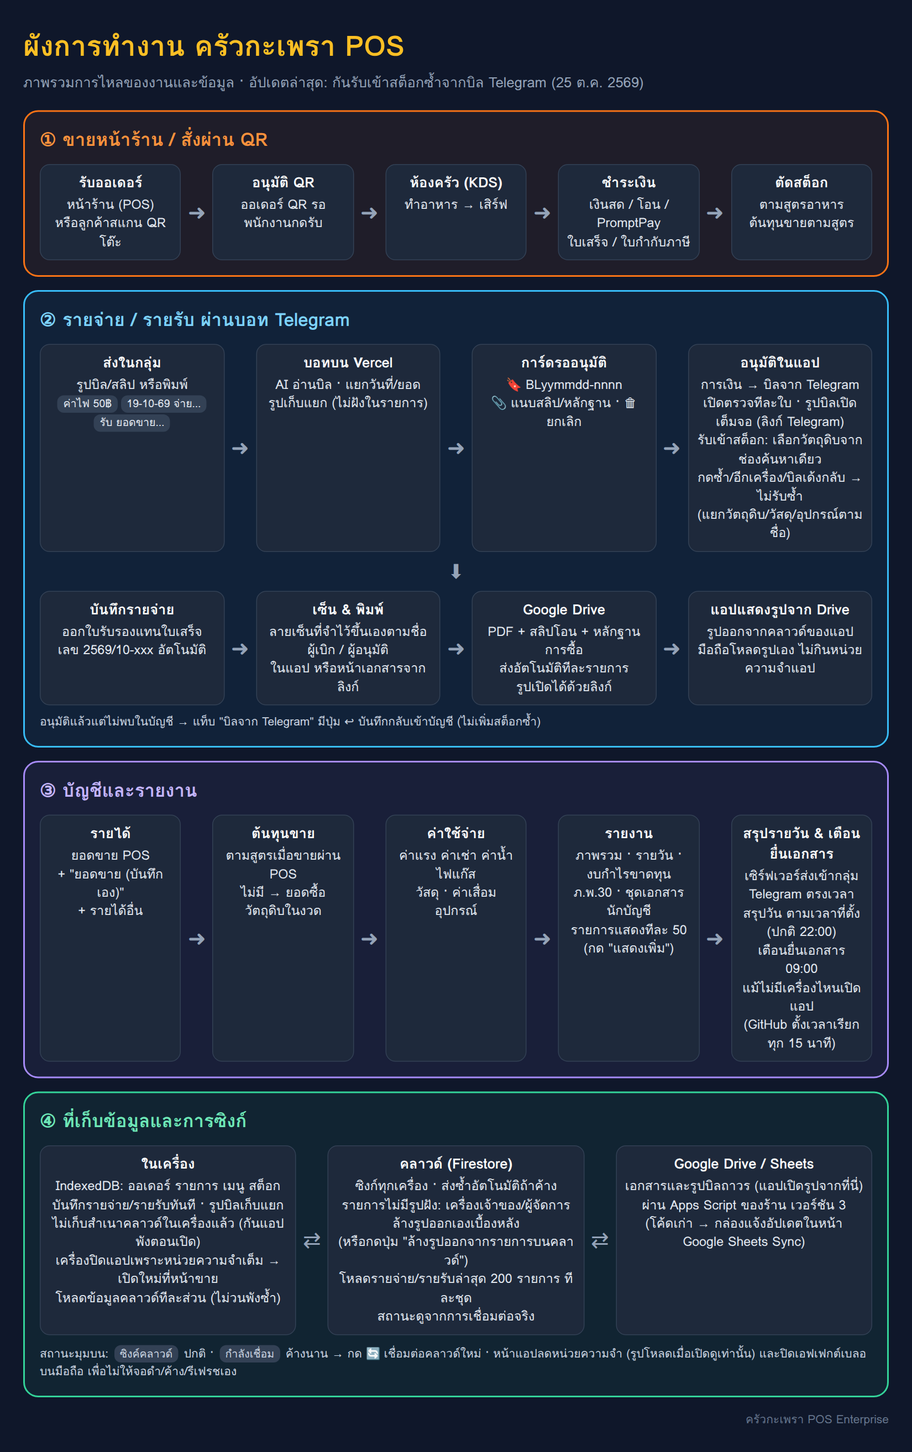
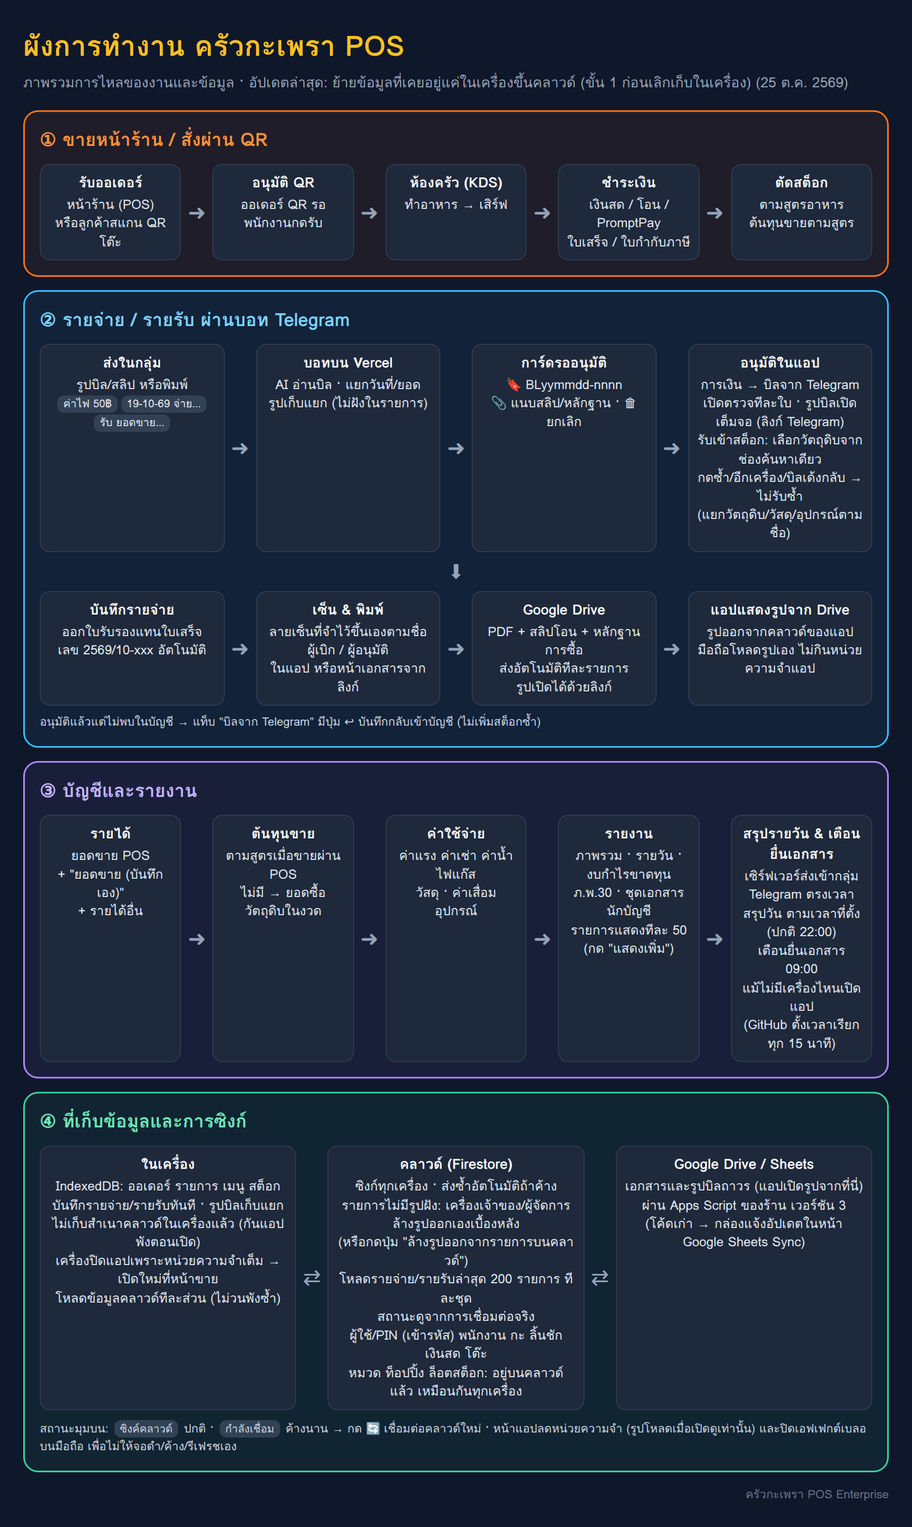
Move the data kept only on a device to the cloud (step 1 of no local storage)
Users and their PINs, staff, shifts, shift swaps, the cash drawer shifts,
tables, menu and ingredient categories, units, toppings, stock lots,
the security log, branches and the QR auto-accept switch lived only on
the device where they were made. Now each is kept in the cloud too and
the same on every device (hooks/useCloudMirror): one field per record,
records changed here sent until the cloud has them, changes from other
devices arriving live, the first meeting uploading what only this
device has (a PIN someone chose wins over a factory one). Lists that
grow are split by month (13 months followed live, older months
uploaded once). PINs, and the override PINs in the settings, travel
only hashed.

Claude-Session: https://claude.ai/code/session_01Gq3UvYW4wv3hsVCXoh5wxy

diff --git a/src/hooks/useCloudMirror.ts b/src/hooks/useCloudMirror.ts
@@ -1,0 +1,181 @@
+import { useEffect, useRef } from 'react';
+import { isFirebaseAvailable, mergeBranchDoc, saveKeyedRecords, subscribeToBranchDoc } from '../services/firebaseService';
+import { mergeMirror } from '../utils/cloudMirror';
+import { keyedItems } from '../utils/keyedDoc';
+
+type WithId = { id: string };
+
+export interface CloudMirrorOptions<T extends WithId> {
+  branchId?: string;
+  /** Online, signed in and the local data loaded */
+  enabled: boolean;
+  items: T[];
+  setItems: (update: (prev: T[]) => T[]) => void;
+  /** The cloud document a record lives in (branches/<branch>/config/<key>) */
+  docOf: (item: T) => string;
+  /** The documents followed live (e.g. the last 13 months of a list split by month) */
+  docs: string[];
+  /** The record as stored in the cloud (e.g. a plain PIN hashed) */
+  toCloud?: (item: T) => T;
+  /** First time this device meets a record the cloud also has: which one is kept (default the cloud's) */
+  prefer?: (mine: T, cloud: T) => T;
+  /** The order of the merged list (default: new records first, then this device's order) */
+  order?: (items: T[]) => T[];
+  /** The list's order is shared too (lists kept in one document, e.g. menu categories) */
+  ordered?: boolean;
+}
+
+const ARCHIVED_KEY = 'POS_CLOUD_ARCHIVED';
+const readArchived = (): Set<string> => {
+  try {
+    return new Set(JSON.parse(localStorage.getItem(ARCHIVED_KEY) || '[]'));
+  } catch {
+    return new Set();
+  }
+};
+
+/**
+ * Keeps a list of the app's state the same in the cloud and on every device, one field per record
+ * (byId.<id>) so devices changing different records keep all of them. Records changed here are
+ * sent (again until the cloud has them); records changed elsewhere arrive live. The first time a
+ * device meets a document, the records only it has are uploaded, so nothing kept on one device is
+ * lost. Records in documents not followed live (older months) are uploaded once.
+ */
+export function useCloudMirror<T extends WithId>(o: CloudMirrorOptions<T>): void {
+  const opts = useRef(o);
+  opts.current = o;
+  const cloudForm = (item: T) => (opts.current.toCloud ? opts.current.toCloud(item) : item);
+
+  /** The cloud's copy of each record (as last seen or sent) */
+  const cloudJson = useRef(new Map<string, string>());
+  /** The document each record was seen in */
+  const docOfId = useRef(new Map<string, string>());
+  /** Documents whose first copy has arrived */
+  const seen = useRef(new Set<string>());
+  /** Ids removed here that the cloud still has */
+  const removedHere = useRef(new Set<string>());
+  const lastIds = useRef<Set<string>>(new Set());
+  /** The shared order (ordered lists) */
+  const cloudOrder = useRef<string[]>([]);
+  const sending = useRef(false);
+  const docsKey = o.docs.join('|');
+
+  const send = async () => {
+    const { branchId, enabled, items, docOf, docs } = opts.current;
+    if (!branchId || !enabled || !isFirebaseAvailable() || sending.current) return;
+    const live = new Set(docs);
+    const archived = readArchived();
+    const groups = new Map<string, { put: T[]; removed: string[] }>();
+    const group = (key: string) => {
+      if (!groups.has(key)) groups.set(key, { put: [], removed: [] });
+      return groups.get(key)!;
+    };
+    for (const item of items) {
+      const key = docOf(item);
+      const form = cloudForm(item);
+      if (live.has(key)) {
+        if (seen.current.has(key) && cloudJson.current.get(item.id) !== JSON.stringify(form)) group(key).put.push(form);
+      } else if (!archived.has(`${branchId}/${key}`)) {
+        group(key).put.push(form);
+      }
+    }
+    for (const id of removedHere.current) {
+      const key = docOfId.current.get(id);
+      if (key && seen.current.has(key)) group(key).removed.push(id);
+    }
+    const orderIds = opts.current.ordered ? items.map(i => i.id) : null;
+    const orderChanged = !!orderIds && docs.length === 1 && seen.current.has(docs[0]) && orderIds.join('\n') !== cloudOrder.current.join('\n');
+    if (!groups.size && !orderChanged) return;
+    sending.current = true;
+    try {
+      for (const [key, g] of groups) {
+        const ok = await saveKeyedRecords(branchId, key, g.put, g.removed);
+        if (!ok) continue;
+        g.put.forEach(p => {
+          cloudJson.current.set(p.id, JSON.stringify(p));
+          docOfId.current.set(p.id, key);
+        });
+        g.removed.forEach(id => {
+          cloudJson.current.delete(id);
+          removedHere.current.delete(id);
+        });
+        if (!live.has(key)) {
+          archived.add(`${branchId}/${key}`);
+          try {
+            localStorage.setItem(ARCHIVED_KEY, JSON.stringify([...archived]));
+          } catch {
+            // uploaded again next time (the same records)
+          }
+        }
+      }
+      if (orderChanged && orderIds && (await mergeBranchDoc(branchId, docs[0], { order: orderIds }))) cloudOrder.current = orderIds;
+    } finally {
+      sending.current = false;
+    }
+  };
+  const sendRef = useRef(send);
+  sendRef.current = send;
+
+  // Records removed here (the cloud still has them), then everything changed is sent
+  useEffect(() => {
+    const ids = new Set(o.items.map(i => i.id));
+    for (const id of lastIds.current) if (!ids.has(id) && cloudJson.current.has(id)) removedHere.current.add(id);
+    for (const id of ids) removedHere.current.delete(id);
+    lastIds.current = ids;
+    if (!o.enabled) return;
+    const t = setTimeout(() => void sendRef.current(), 1500);
+    return () => clearTimeout(t);
+  }, [o.items, o.enabled]);
+
+  // Not sent (offline, refused): tried again
+  useEffect(() => {
+    if (!o.enabled) return;
+    const t = setInterval(() => void sendRef.current(), 30_000);
+    const online = () => void sendRef.current();
+    window.addEventListener('online', online);
+    return () => {
+      clearInterval(t);
+      window.removeEventListener('online', online);
+    };
+  }, [o.enabled]);
+
+  useEffect(() => {
+    const { branchId, enabled } = opts.current;
+    if (!branchId || !enabled || !isFirebaseAvailable()) return;
+    seen.current = new Set();
+    const unsubs = opts.current.docs.map(key =>
+      subscribeToBranchDoc(branchId, key, data => {
+        const { docOf, prefer, order } = opts.current;
+        const first = !seen.current.has(key);
+        const cloud = keyedItems<T>(data);
+        const before = new Map(cloudJson.current);
+        const removed = new Set(removedHere.current);
+        // The cloud's copy from now on
+        const cloudIds = new Set(cloud.map(c => c.id));
+        for (const [id, k] of docOfId.current) if (k === key && !cloudIds.has(id)) cloudJson.current.delete(id);
+        cloud.forEach(c => {
+          cloudJson.current.set(c.id, JSON.stringify(c));
+          docOfId.current.set(c.id, key);
+        });
+        const shared = opts.current.ordered && Array.isArray((data as any)?.order) ? ((data as any).order as string[]) : null;
+        // Another device's order wins; on a first meeting only for a device with nothing of its own
+        // (otherwise this device's order is sent)
+        const changedOrder = !!shared && shared.join('\n') !== cloudOrder.current.join('\n');
+        if (shared) cloudOrder.current = shared;
+        opts.current.setItems(prev => {
+          const merged = mergeMirror({ prev, cloud, key, first, before, removed, docOf, toCloud: cloudForm, prefer });
+          let next = order ? order(merged) : merged;
+          if (shared && changedOrder && (!first || prev.length === 0)) {
+            const at = new Map(shared.map((id, i) => [id, i]));
+            next = [...next].sort((x, y) => (at.get(x.id) ?? -1) - (at.get(y.id) ?? -1));
+          }
+          return next.length === prev.length && next.every((x, i) => x === prev[i]) ? prev : next;
+        });
+        seen.current.add(key);
+        setTimeout(() => void sendRef.current(), 500);
+      })
+    );
+    return () => unsubs.forEach(u => u());
+    // eslint-disable-next-line react-hooks/exhaustive-deps
+  }, [o.branchId, o.enabled, docsKey]);
+}

diff --git a/src/context/POSContext.tsx b/src/context/POSContext.tsx
@@ -1,6 +1,7 @@
 import React, { createContext, useContext, useState, useEffect, useCallback, useRef, useMemo, ReactNode } from 'react';
 import { isLowStock } from '../utils/stockTypes';
-import { DEFAULT_PIN_HASH, hashPin, isHashedPin } from '../utils/pins';
+import { DEFAULT_PIN_HASH, hashPin, hashPinWithSalt, isHashedPin, pinMatches } from '../utils/pins';
+import { useCloudMirror } from '../hooks/useCloudMirror';
 import { bigStore, flushBigStore } from '../utils/bigStore';
 import { lightStart } from '../utils/bootGuard';
 import { offloadRecordImages, recordImageRefs, uploadImageNow } from '../services/imageStore';
@@ -1454,7 +1455,10 @@ export const POSProvider: React.FC<{ children: ReactNode }> = ({ children }) => 
         if (local && isFirebaseAvailable()) syncSettingsToFirestore(local, branchTargetId).catch(console.warn);
         return;
       }
-      const { updatedAt: _u, lastUpdatedIso: _l, adminPin: _a, managerPin: _m, enableKitchenSound: _k, ...cloud } = data as Record<string, unknown>;
+      const { updatedAt: _u, lastUpdatedIso: _l, adminPin, managerPin, enableKitchenSound: _k, ...cloud } = data as Record<string, unknown>;
+      // Override PINs arrive only hashed (a plain one is never taken from the cloud)
+      if (typeof adminPin === 'string' && isHashedPin(adminPin)) (cloud as Record<string, unknown>).adminPin = adminPin;
+      if (typeof managerPin === 'string' && isHashedPin(managerPin)) (cloud as Record<string, unknown>).managerPin = managerPin;
       setSettings(prev => {
         const next = { ...prev, ...(cloud as Partial<SystemSettings>) };
         return JSON.stringify(next) === JSON.stringify(prev) ? prev : next;
@@ -1530,6 +1534,55 @@ export const POSProvider: React.FC<{ children: ReactNode }> = ({ children }) => 
       unsubTombstones();
     };
   }, [isStorageLoaded, effectiveOffline, currentBranch?.id, deletedMenuItemIds.length, deletedIngredientIds.length]);
+
+  // The shop's own lists (people and PINs, staff, shifts, cash drawer, tables, categories,
+  // toppings, stock lots…) in the cloud too, the same on every device: before, they lived only on
+  // the device where they were made. PINs travel hashed.
+  const mirrorOn = isStorageLoaded && !effectiveOffline && isFirebaseAvailable();
+  const mirrorBranch = currentBranch?.id;
+  const recentMonths = useMemo(() => {
+    const now = new Date();
+    return Array.from({ length: 13 }, (_, i) => {
+      const d = new Date(now.getFullYear(), now.getMonth() - i, 1);
+      return `${d.getFullYear()}-${String(d.getMonth() + 1).padStart(2, '0')}`;
+    });
+  }, []);
+  const cloudPin = <T extends { id: string; pin?: string }>(x: T): T =>
+    x.pin && !isHashedPin(x.pin) ? { ...x, pin: hashPinWithSalt(x.pin, `cloud-${x.id}`) } : x;
+  // A factory or easy PIN loses to a PIN someone chose (on whichever side it is)
+  const weakPin = (stored?: string) => !stored || stored === DEFAULT_PIN_HASH || ['1234', '0000', '1111', '2222', '3333', '4444', '5555', '6666', '7777', '8888', '9999'].some(p => pinMatches(stored, p));
+  const preferChosenPin = <T extends { pin?: string }>(mine: T, cloud: T): T => (weakPin(cloud.pin) && !weakPin(mine.pin) ? mine : cloud);
+  const single = (key: string) => ({ docOf: () => key, docs: [key] });
+  const monthly = (prefix: string, monthOf: (x: any) => string, months = recentMonths) => ({
+    docOf: (x: any) => `${prefix}_${(monthOf(x) || '').slice(0, 7) || 'undated'}`,
+    docs: [...months.map(m => `${prefix}_${m}`), `${prefix}_undated`]
+  });
+  const mirror = { branchId: mirrorBranch, enabled: mirrorOn };
+  useCloudMirror<User>({ ...mirror, ...single('state_users'), items: users, setItems: setUsers, toCloud: cloudPin, prefer: preferChosenPin, ordered: true });
+  useCloudMirror<StaffMember>({ ...mirror, ...single('state_staff'), items: staffMembers, setItems: setStaffMembers, toCloud: cloudPin, prefer: preferChosenPin, ordered: true });
+  useCloudMirror<Branch>({ ...mirror, ...single('state_branches'), items: branches, setItems: setBranches, ordered: true });
+  useCloudMirror<CategoryItem>({ ...mirror, ...single('state_categories'), items: categories, setItems: setCategories, ordered: true });
+  useCloudMirror<IngredientCategory>({ ...mirror, ...single('state_ing_categories'), items: ingredientCategories, setItems: setIngredientCategories, ordered: true });
+  useCloudMirror<IngredientUnitItem>({ ...mirror, ...single('state_units'), items: ingredientUnits, setItems: setIngredientUnits, ordered: true });
+  useCloudMirror<AddOnOption>({ ...mirror, ...single('state_addons'), items: addOns, setItems: setAddOns, ordered: true });
+  useCloudMirror<ShiftSwapRequest>({ ...mirror, ...single('state_shift_swaps'), items: shiftSwapRequests, setItems: setShiftSwapRequests });
+  useCloudMirror<ShiftEntry>({ ...mirror, ...monthly('state_shifts', x => x.date), items: shifts, setItems: setShifts });
+  useCloudMirror<CashShift>({ ...mirror, ...monthly('state_cash', x => x.openedAt), items: cashShifts, setItems: setCashShifts });
+  useCloudMirror<StockLot>({ ...mirror, ...monthly('state_lots', x => x.receivedDate), items: stockLots, setItems: setStockLots });
+  useCloudMirror<SecurityLogEntry>({ ...mirror, ...monthly('state_security', x => x.timestamp, recentMonths.slice(0, 3)), items: securityLogs, setItems: setSecurityLogs });
+  // Tables (names in order) and the QR auto-accept switch, as records
+  const tableItems = useMemo(() => tables.map(t => ({ id: t })), [tables]);
+  const setTableItems = useCallback((update: (prev: { id: string }[]) => { id: string }[]) => setTables(prev => {
+    const next = update(prev.map(t => ({ id: t }))).map(t => t.id);
+    return next.length === prev.length && next.every((t, i) => t === prev[i]) ? prev : next;
+  }), []);
+  useCloudMirror<{ id: string }>({ ...mirror, ...single('state_tables'), items: tableItems, setItems: setTableItems, ordered: true });
+  const miscItems = useMemo(() => [{ id: 'autoApproveQR', on: autoApproveQR }], [autoApproveQR]);
+  const setMiscItems = useCallback((update: (prev: { id: string; on: boolean }[]) => { id: string; on: boolean }[]) => setAutoApproveQR(prev => {
+    const found = update([{ id: 'autoApproveQR', on: prev }]).find(x => x.id === 'autoApproveQR');
+    return found ? !!found.on : prev;
+  }), []);
+  useCloudMirror<{ id: string; on: boolean }>({ ...mirror, ...single('state_misc'), items: miscItems, setItems: setMiscItems });
 
   // Automated Daily Sales Summary Notification at Scheduled Time (e.g. 22:00)
   useEffect(() => {

diff --git a/docs/workflow/flow.html b/docs/workflow/flow.html
@@ -17,7 +17,7 @@ h1{margin:0 0 4px;font-size:34px;color:#fbbf24}.sub{color:#94a3b8;font-size:17px
 .foot{color:#64748b;font-size:14px;margin-top:6px;text-align:right}
 </style></head><body>
 <h1>ผังการทำงาน ครัวกะเพรา POS</h1>
-<div class="sub">ภาพรวมการไหลของงานและข้อมูล · อัปเดตล่าสุด: กันรับเข้าสต็อกซ้ำจากบิล Telegram (25 ต.ค. 2569)</div>
+<div class="sub">ภาพรวมการไหลของงานและข้อมูล · อัปเดตล่าสุด: ย้ายข้อมูลที่เคยอยู่แค่ในเครื่องขึ้นคลาวด์ (ขั้น 1 ก่อนเลิกเก็บในเครื่อง) (25 ต.ค. 2569)</div>
 
 <div class="lane pos"><h2>① ขายหน้าร้าน / สั่งผ่าน QR</h2>
 <div class="row">
@@ -57,7 +57,7 @@ h1{margin:0 0 4px;font-size:34px;color:#fbbf24}.sub{color:#94a3b8;font-size:17px
 <div class="lane data"><h2>④ ที่เก็บข้อมูลและการซิงก์</h2>
 <div class="row">
 <div class="box"><b>ในเครื่อง</b>IndexedDB: ออเดอร์ รายการ เมนู สต็อก<br>บันทึกรายจ่าย/รายรับทันที · รูปบิลเก็บแยก<br>ไม่เก็บสำเนาคลาวด์ในเครื่องแล้ว (กันแอปพังตอนเปิด)<br>เครื่องปิดแอปเพราะหน่วยความจำเต็ม → เปิดใหม่ที่หน้าขาย<br>โหลดข้อมูลคลาวด์ทีละส่วน (ไม่วนพังซ้ำ)</div><div class="ar">⇄</div>
-<div class="box"><b>คลาวด์ (Firestore)</b>ซิงก์ทุกเครื่อง · ส่งซ้ำอัตโนมัติถ้าค้าง<br>รายการไม่มีรูปฝัง: เครื่องเจ้าของ/ผู้จัดการล้างรูปออกเองเบื้องหลัง<br>(หรือกดปุ่ม "ล้างรูปออกจากรายการบนคลาวด์")<br>โหลดรายจ่าย/รายรับล่าสุด 200 รายการ ทีละชุด<br>สถานะดูจากการเชื่อมต่อจริง</div><div class="ar">⇄</div>
+<div class="box"><b>คลาวด์ (Firestore)</b>ซิงก์ทุกเครื่อง · ส่งซ้ำอัตโนมัติถ้าค้าง<br>รายการไม่มีรูปฝัง: เครื่องเจ้าของ/ผู้จัดการล้างรูปออกเองเบื้องหลัง<br>(หรือกดปุ่ม "ล้างรูปออกจากรายการบนคลาวด์")<br>โหลดรายจ่าย/รายรับล่าสุด 200 รายการ ทีละชุด<br>สถานะดูจากการเชื่อมต่อจริง<br>ผู้ใช้/PIN (เข้ารหัส) พนักงาน กะ ลิ้นชักเงินสด โต๊ะ<br>หมวด ท็อปปิ้ง ล็อตสต็อก: อยู่บนคลาวด์แล้ว เหมือนกันทุกเครื่อง</div><div class="ar">⇄</div>
 <div class="box"><b>Google Drive / Sheets</b>เอกสารและรูปบิลถาวร (แอปเปิดรูปจากที่นี่)<br>ผ่าน Apps Script ของร้าน เวอร์ชัน 3<br>(โค้ดเก่า → กล่องแจ้งอัปเดตในหน้า Google Sheets Sync)</div>
 </div>
 <div class="note">สถานะมุมบน: <span class="tag">ซิงค์คลาวด์</span> ปกติ · <span class="tag">กำลังเชื่อม</span> ค้างนาน → กด 🔄 เชื่อมต่อคลาวด์ใหม่ · หน้าแอปลดหน่วยความจำ (รูปโหลดเมื่อเปิดดูเท่านั้น) และปิดเอฟเฟกต์เบลอบนมือถือ เพื่อไม่ให้จอดำ/ค้าง/รีเฟรชเอง</div>

diff --git a/src/utils/__tests__/cloudMirror.test.ts b/src/utils/__tests__/cloudMirror.test.ts
@@ -1,0 +1,38 @@
+import { describe, expect, it } from 'vitest';
+import { mergeMirror } from '../cloudMirror';
+
+type R = { id: string; v: number };
+const base = { key: 'd', docOf: () => 'd', toCloud: (x: R) => x, removed: new Set<string>() };
+const j = (x: R) => JSON.stringify(x);
+
+describe('mergeMirror', () => {
+  it('first meeting: keeps both sides, the cloud wins a record both have (unless preferred)', () => {
+    const prev = [{ id: 'a', v: 1 }, { id: 'local', v: 1 }];
+    const cloud = [{ id: 'a', v: 2 }, { id: 'remote', v: 1 }];
+    const out = mergeMirror({ ...base, prev, cloud, first: true, before: new Map() });
+    expect(out).toEqual([{ id: 'remote', v: 1 }, { id: 'a', v: 2 }, { id: 'local', v: 1 }]);
+    const mine = mergeMirror({ ...base, prev, cloud, first: true, before: new Map(), prefer: m => m });
+    expect(mine.find(x => x.id === 'a')).toEqual({ id: 'a', v: 1 });
+  });
+
+  it('later: a change made elsewhere arrives; a change made here and not sent stays', () => {
+    const before = new Map([['a', j({ id: 'a', v: 1 })], ['b', j({ id: 'b', v: 1 })]]);
+    const prev = [{ id: 'a', v: 5 }, { id: 'b', v: 1 }];
+    const cloud = [{ id: 'a', v: 1 }, { id: 'b', v: 9 }];
+    expect(mergeMirror({ ...base, prev, cloud, first: false, before })).toEqual([{ id: 'a', v: 5 }, { id: 'b', v: 9 }]);
+  });
+
+  it('later: removed elsewhere goes; added here and not sent stays; removed here does not come back', () => {
+    const before = new Map([['gone', j({ id: 'gone', v: 1 })], ['del', j({ id: 'del', v: 1 })]]);
+    const prev = [{ id: 'gone', v: 1 }, { id: 'new', v: 1 }];
+    const cloud = [{ id: 'del', v: 1 }];
+    const out = mergeMirror({ ...base, prev, cloud, first: false, before, removed: new Set(['del']) });
+    expect(out).toEqual([{ id: 'new', v: 1 }]);
+  });
+
+  it('records of other documents are left alone', () => {
+    const prev = [{ id: 'x', v: 1 }];
+    const out = mergeMirror({ ...base, docOf: () => 'other', prev, cloud: [], first: false, before: new Map([['x', j({ id: 'x', v: 1 })]]) });
+    expect(out).toEqual(prev);
+  });
+});

diff --git a/src/utils/cloudMirror.ts b/src/utils/cloudMirror.ts
@@ -1,0 +1,49 @@
+/**
+ * How a cloud document's records and this device's list come together (see hooks/useCloudMirror).
+ * Kept apart from the hook so it can be tested on its own.
+ */
+type WithId = { id: string };
+
+export function mergeMirror<T extends WithId>(a: {
+  /** This device's list */
+  prev: T[];
+  /** The records in the cloud document */
+  cloud: T[];
+  /** Which document */
+  key: string;
+  /** The first copy of this document this device sees */
+  first: boolean;
+  /** The cloud's copy of each record before this one arrived */
+  before: Map<string, string>;
+  /** Removed here, not yet removed in the cloud */
+  removed: Set<string>;
+  docOf: (item: T) => string;
+  toCloud: (item: T) => T;
+  prefer?: (mine: T, cloud: T) => T;
+}): T[] {
+  const { prev, cloud, key, first, before, removed, docOf, toCloud, prefer } = a;
+  const json = (x: T) => JSON.stringify(toCloud(x));
+  const cloudById = new Map(cloud.map(c => [c.id, c]));
+  const out: T[] = [];
+  const used = new Set<string>();
+  for (const mine of prev) {
+    const c = cloudById.get(mine.id);
+    if (c) {
+      used.add(mine.id);
+      if (first) out.push(prefer ? prefer(mine, c) : c);
+      // Changed here and not sent yet, while the cloud's copy did not change: this device's
+      else if (before.get(mine.id) === JSON.stringify(c) && json(mine) !== JSON.stringify(c)) out.push(mine);
+      else out.push(c);
+      continue;
+    }
+    if (docOf(mine) !== key) {
+      out.push(mine); // another document's
+    } else if (first || !before.has(mine.id)) {
+      out.push(mine); // only on this device so far, or added here and not sent yet: uploaded
+    }
+    // else: the cloud had it and no longer does (removed on another device)
+  }
+  // New from the cloud (not the ones removed here)
+  const added = cloud.filter(c => !used.has(c.id) && !removed.has(c.id));
+  return [...added, ...out];
+}

diff --git a/src/services/firebaseService.ts b/src/services/firebaseService.ts
@@ -1,3 +1,4 @@
+import { hashPinWithSalt, isHashedPin } from '../utils/pins';
 import { initializeApp, getApps, getApp } from 'firebase/app';
 import { isLowStock } from '../utils/stockTypes';
 import {
@@ -1993,8 +1994,10 @@ export async function syncSettingsToFirestore(
   await waitForFirebaseAuth();
 
   try {
-    // Sanitize pins before uploading
-    const { adminPin, managerPin, ...safeSettings } = settings;
+    // Override PINs travel only hashed (the same on every device, none kept on a device alone)
+    const { adminPin, managerPin, ...rest } = settings;
+    const hashed = (pin: string | undefined, salt: string) => (!pin ? undefined : isHashedPin(pin) ? pin : hashPinWithSalt(pin, salt));
+    const safeSettings = { ...rest, adminPin: hashed(adminPin, `cloud-admin-${branchId}`), managerPin: hashed(managerPin, `cloud-manager-${branchId}`) };
     const docRef = doc(dbInstance, 'branches', branchId, 'config', 'settings');
     await setDoc(
       docRef,
